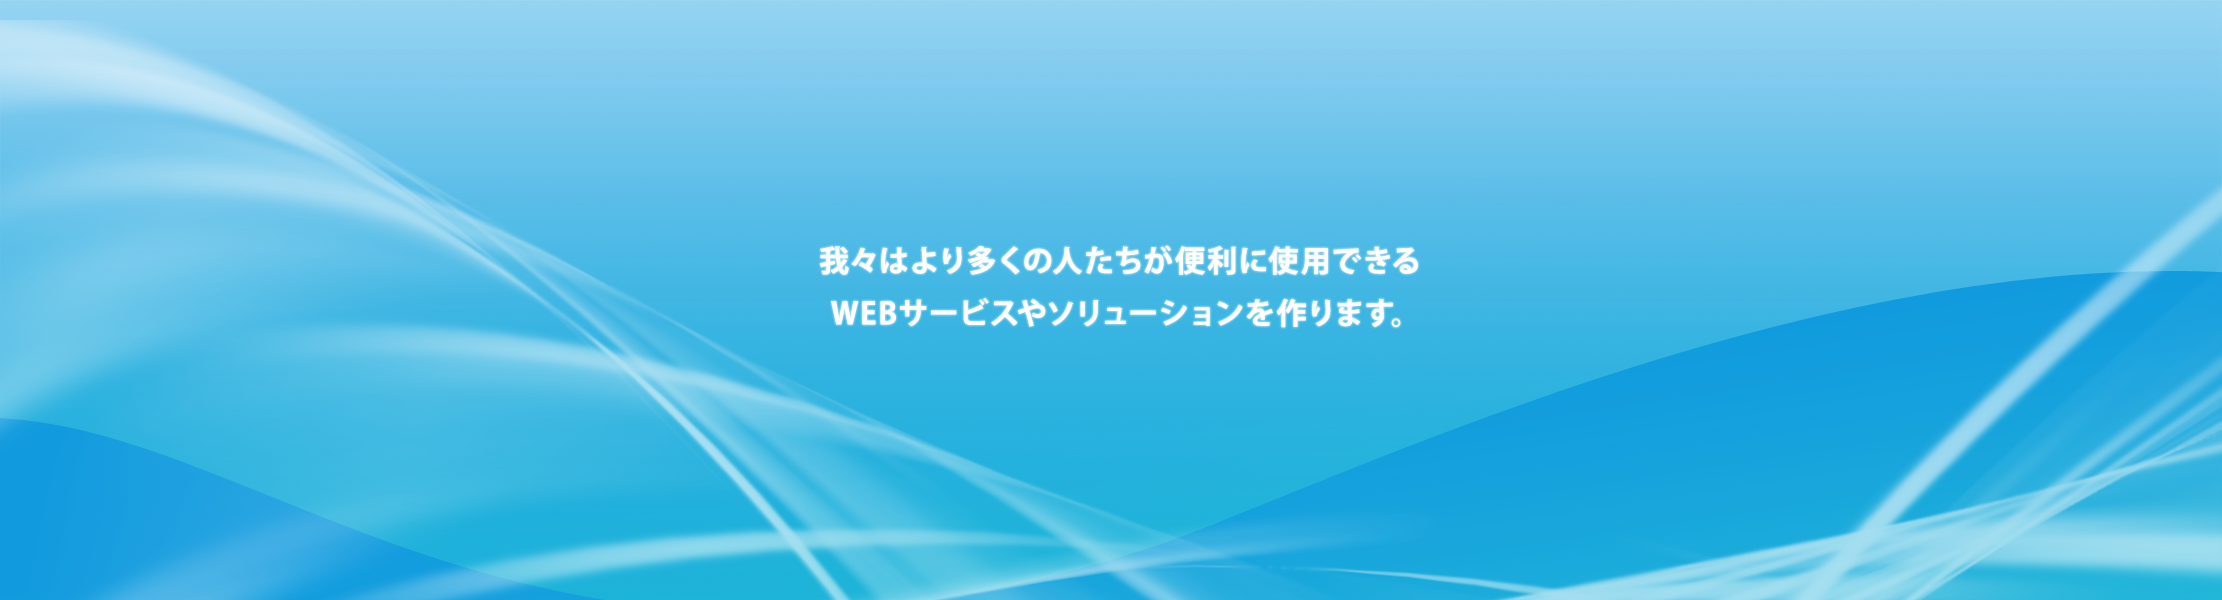
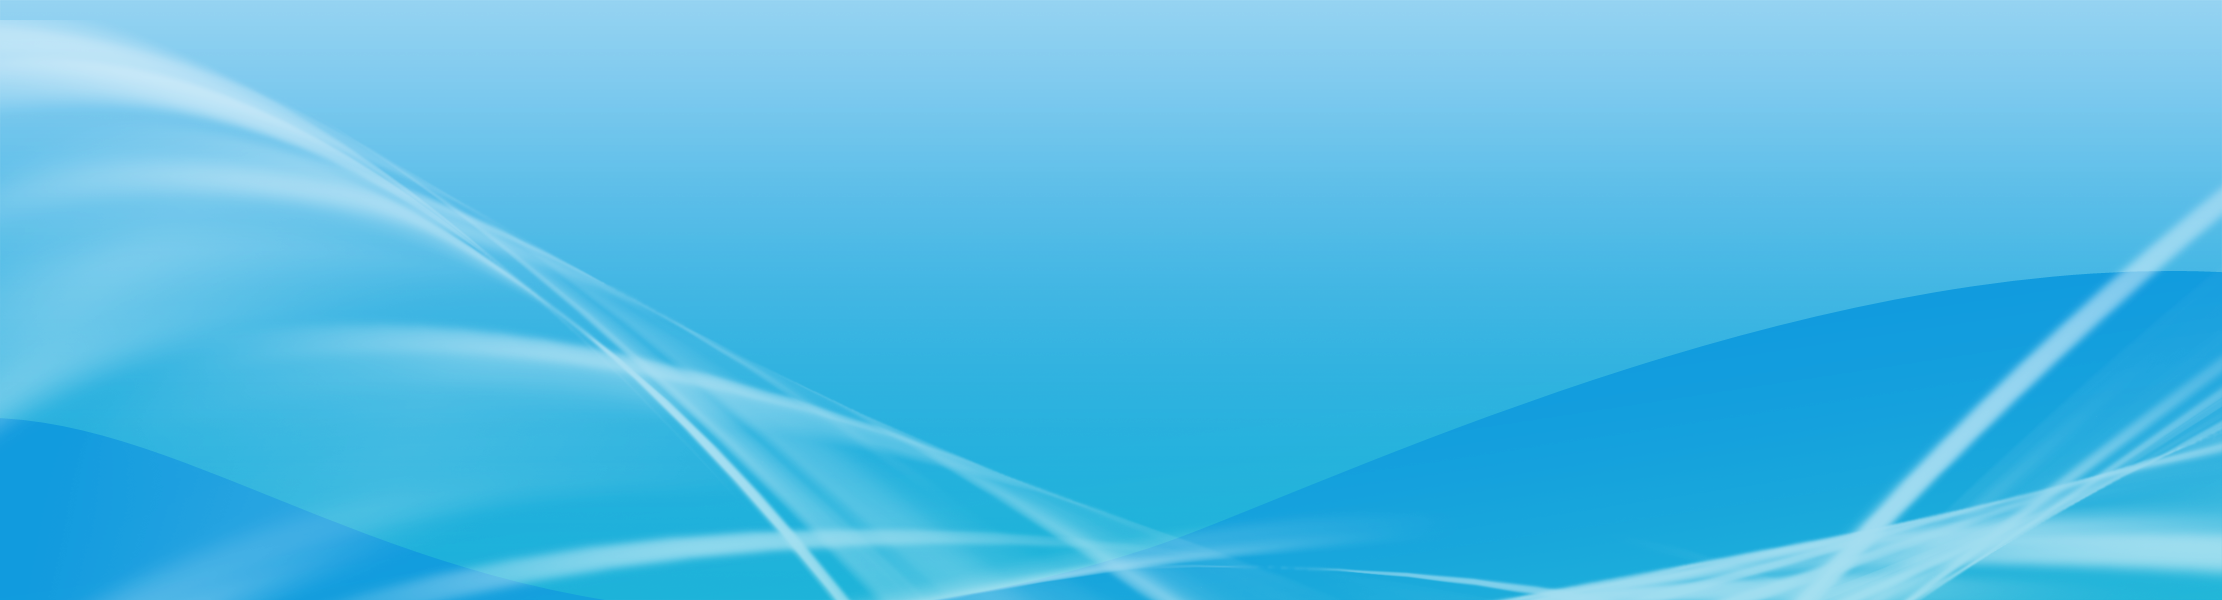
デザイン追加

Changed region(s): [[0.3416, 0.39, 0.6521, 0.54]]

diff --git a/index.html b/index.html
@@ -81,7 +81,6 @@ $(function () {
     <li class="navi_block f"><p><a href="about.html" >	　Auto Manとは　</a></p></li>
     <li class="navi_block g"><p><a href="">　機能紹介　</a></p></li>
     <li class="navi_block h"><p><a href="price.html">　料金プラン　</a></p></li>
-    <li class="navi_block i"><p><a href="">　選べるデザイン　</a></p></li>
 	<li class="navi_block j"><p><a href="faq.html">　よくあるご質問　</a></p></li>
 </ul>
 </div>
@@ -121,7 +120,6 @@ $(function () {
     <li class="navi_block f"><p><a href="about.html" >	　Auto Manとは　</a></p></li>
     <li class="navi_block g"><p><a href="">　機能紹介　</a></p></li>
     <li class="navi_block h"><p><a href="price.html">　料金プラン　</a></p></li>
-    <li class="navi_block i"><p><a href="">　選べるデザイン　</a></p></li>
 	<li class="navi_block j"><p><a href="faq.html">　よくあるご質問　</a></p></li>
 </ul>
 </div>
@@ -132,139 +130,116 @@ $(function () {
 
 
 <div id="circ">
-
+	<p class="cric_text">あらゆるコンテンツを一括管理・更新する自動更新システム</p>
 </div>
 
 <div class="con0">
 <div class="con_line">
-<span class="label_p6">制作実績1500サイト以上。<br>10年以上風俗サイトを作り続けてきた制作会社が開発した風俗店向けホームページ総合サービス。</span>
-<br>
 <span class="label1">AUTO MANが選ばれる理由</span>
+<br>
+<span class="label_p6">制作実績1500サイト以上。<br>10年以上風俗サイトを作り続けてきた制作会社が開発した風俗店向けホームページ総合サービス。</span>
 </div>
 <div class="con_area">
-<ul class="con_box_area">
-    <li class="box5 p">
-	<div class="con_inbox">
-	<div class="con_title"><img src="img/con_title1.png"></div>
-	</div>
-	</li>
-    <li class="box5 q">
-	<div class="con_inbox">
-	<div class="con_title"><img src="img/con_title2.png"></div>
-	</div>
-	</li>
-    <li class="box5 r">
-	<div class="con_inbox">
-	<div class="con_title"><img src="img/con_title3.png"></div>
-	</div>
-	</li>
-</ul>
+	<ul class="con_box_area">
+	    <li class="box5 p">
+		<div class="con_inbox">
+		<div class="con_title"><img src="img/con_title1.png"></div>
+		</div>
+		</li>
+	    <li class="box5 q">
+		<div class="con_inbox">
+		<div class="con_title"><img src="img/con_title2.png"></div>
+		</div>
+		</li>
+	    <li class="box5 r">
+		<div class="con_inbox">
+		<div class="con_title"><img src="img/con_title3.png"></div>
+		</div>
+		</li>
+	</ul>
 </div>
 </div>
 
 <div class="con1">
 
-<ul class="con_box_area2">
-    <li class="box5 s">
-	<div class="con1_top"><p class="label2">お客様のデザインに<br>3時間でシステムを搭載可能</p></div>
-	<hr class="index_line">
-	<div class="con1_middle">
-	<span class="label3">AutoManが提供しているデザインガイドラインは、デザイナーであれば、お客様好みにデザインすることができます。
-しかも、ガイドラインに沿ったデザインデータをお持ちいただければ、3時間でシステムを搭載し、ホームページとして納品することができます。</span>
+	<ul class="con_box_area2">
+	    <li class="box5 s">
+			<div class="con1_top"><p class="label2">オートマンは<br>”クラウド基盤”のシステム</p></div>
+			<hr class="index_line">
+			<div class="con1_middle">
+			<span class="label3">オートマンはクラウドを基盤にしたシステムなので、<br>パソコンを一日中つけている必要がありません。<br>
+								登録したデータはすぐにサーバーに転送され、<br>保管されるので安心です。</span>
+			</div>
+		</li>
+	    <li class="box5 t">
+			<div class="con1_top"><p class="label2"><br>複数の店舗管理に特化</p></div>
+			<hr class="index_line">
+			<div class="con1_middle">
+			<span class="label3">オートマンは複数の店舗管理に特化。<br>最大100店舗の更新と管理が可能です。<br>
+								直感的で見やすいインターフェースで<br>簡単に操作できます。</span>
+			</div>
+			<div class="con1_bottom">
+				<a href=""><div id="index_link" class="button2">詳しくはこちら</div></a>
+			</div>
+		</li>
+	    <li class="box5 u">
+			<div class="con1_top"><p class="label2"><br>素早い対応</p></div>
+			<hr class="index_line">
+			<div class="con1_middle">
+			<span class="label3">
+				まだ対応していないサイトがありましたら、<br>担当者にご連絡ください。<br>
+				増えつづける広告サイトに合わせて<br>常に新しく更新されます。
+			</span>
+			</div>
+		</li>
+	</ul>
+
+</div>
+
+<div class="con2index">
+	<div class="index_news">
+		<p class="index_news_title">NEWS</p>
+		<ul id="index_news">
+			<li>
+				<a href="">
+					<span class="date">2016.10.10</span>
+					<span class="news_title">ニュースリリース</span>
+				</a>
+			</li>
+			<li>
+				<a href="">
+					<span class="date">2016.10.10</span>
+					<span class="news_title">ニュースリリース</span>
+				</a>
+			</li>
+			<li>
+				<a href="">
+					<span class="date">2016.10.10</span>
+					<span class="news_title">ニュースリリース</span>
+				</a>
+			</li>
+			<li>
+				<a href="">
+					<span class="date">2016.10.10</span>
+					<span class="news_title">ニュースリリース</span>
+				</a>
+			</li>
+			<li>
+				<a href="">
+					<span class="date">2016.10.10</span>
+					<span class="news_title">ニュースリリース</span>
+				</a>
+			</li>
+		</ul>
+		<p class="news_more_link"><a href="">...MORE</a></p>
 	</div>
-	<div class="con1_bottom">
-<div class="button2">詳しくはこちら</div>
+	<div class="agency_agreement">
+
+			<img src="img/agency.png">
+
 	</div>
-	</li>
-    <li class="box5 t">
-<div class="con1_top"><p class="label2">ご契約の全ての広告サイトを<br>一括更新</p></div>
-<hr class="index_line">
-	<div class="con1_middle">
-	<span class="label3">一度の作業でご契約の広告サイトを一括で更新できます。
-手間のかかる更新作業が不要になる為、店舗業務に集中でき、大幅にコストを削減できます。</span>
-	</div>
-	<div class="con1_bottom">
-	<div class="button2">詳しくはこちら</div>
-	</div>
-	</li>
-    <li class="box5 u">
-<div class="con1_top"><p class="label2">風俗店専用CMS搭載<br>選べるテンプレートデザイン</p></div>
-<hr class="index_line">
-	<div class="con1_middle">
-	<span class="label3">CHANG PONGが提供しているデザインガイドラインは、デザイナーであれば、お客様好みにデザインすることができます。
-しかも、ガイドラインに沿ったデザインデータをお持ちいただければ、3時間でシステムを搭載し、ホームページとして納品することができます。</span>
-	</div>
-	<div class="con1_bottom">
-	<div class="button2">詳しくはこちら</div>
-	</div>
-	</li>
-</ul>
-
-
-
 </div>
 
-<div class="con2">
-
-<div class="con_4">
-
-<div class="con_4_left">
-<img src="img/top_image.png">
-</div>
-<div class="con_4_center">
-</div>
-<div class="con_4_right">
-<div class="con_4_right_1">
-<img src="img/top_heading_01.png">
-</div>
-<div class="con_4_right_2">
-デザイン制作会社、デザイナーの方、デザイナーをお抱えの風俗店様、フリーランスの方々、
-とにかくデザインに自信のある方は必見です。CHANG PONGが提供しているデザインガイドラインは
-PhotoShopを使用することにより自由にデザインすることができます。
-ガイドラインに沿ったデザインデータをいただければ3時間でシステムを搭載します。
-</div>
-<div class="con_4_right_3">
-<div class="button3">もっと詳しく見る</div>
-</div>
-</div>
-
-</div>
-
-
-
-</div>
-
-<div class="con3">
-
-<div class="con_4">
-
-<div class="con_4_right">
-<div class="con_4_right_1">
-<img src="img/top_heading_02.png">
-</div>
-<div class="con_4_right_2">
-デザイン制作会社、デザイナーの方、デザイナーをお抱えの風俗店様、フリーランスの方々、
-とにかくデザインに自信のある方は必見です。CHANG PONGが提供しているデザインガイドラインは
-PhotoShopを使用することにより自由にデザインすることができます。
-ガイドラインに沿ったデザインデータをいただければ3時間でシステムを搭載します。
-</div>
-<div class="con_4_right_3">
-<div class="button3">もっと詳しく見る</div>
-</div>
-</div>
-<div class="con_4_center">
-</div>
-<div class="con_4_left">
-<img src="img/top_image.png">
-</div>
-
-
-
-</div>
-
-
-</div>
-</div>
 
 <div id="footer">
 <div id="footer_area">

diff --git a/about.html b/about.html
@@ -81,7 +81,6 @@ $(function () {
     <li class="navi_block f"><p><a href="about.html" >	　Auto Manとは　</a></p></li>
     <li class="navi_block g"><p><a href="">　機能紹介　</a></p></li>
     <li class="navi_block h"><p><a href="price.html">　料金プラン　</a></p></li>
-    <li class="navi_block i"><p><a href="">　選べるデザイン　</a></p></li>
 	<li class="navi_block j"><p><a href="faq.html">　よくあるご質問　</a></p></li>
 </ul>
 </div>
